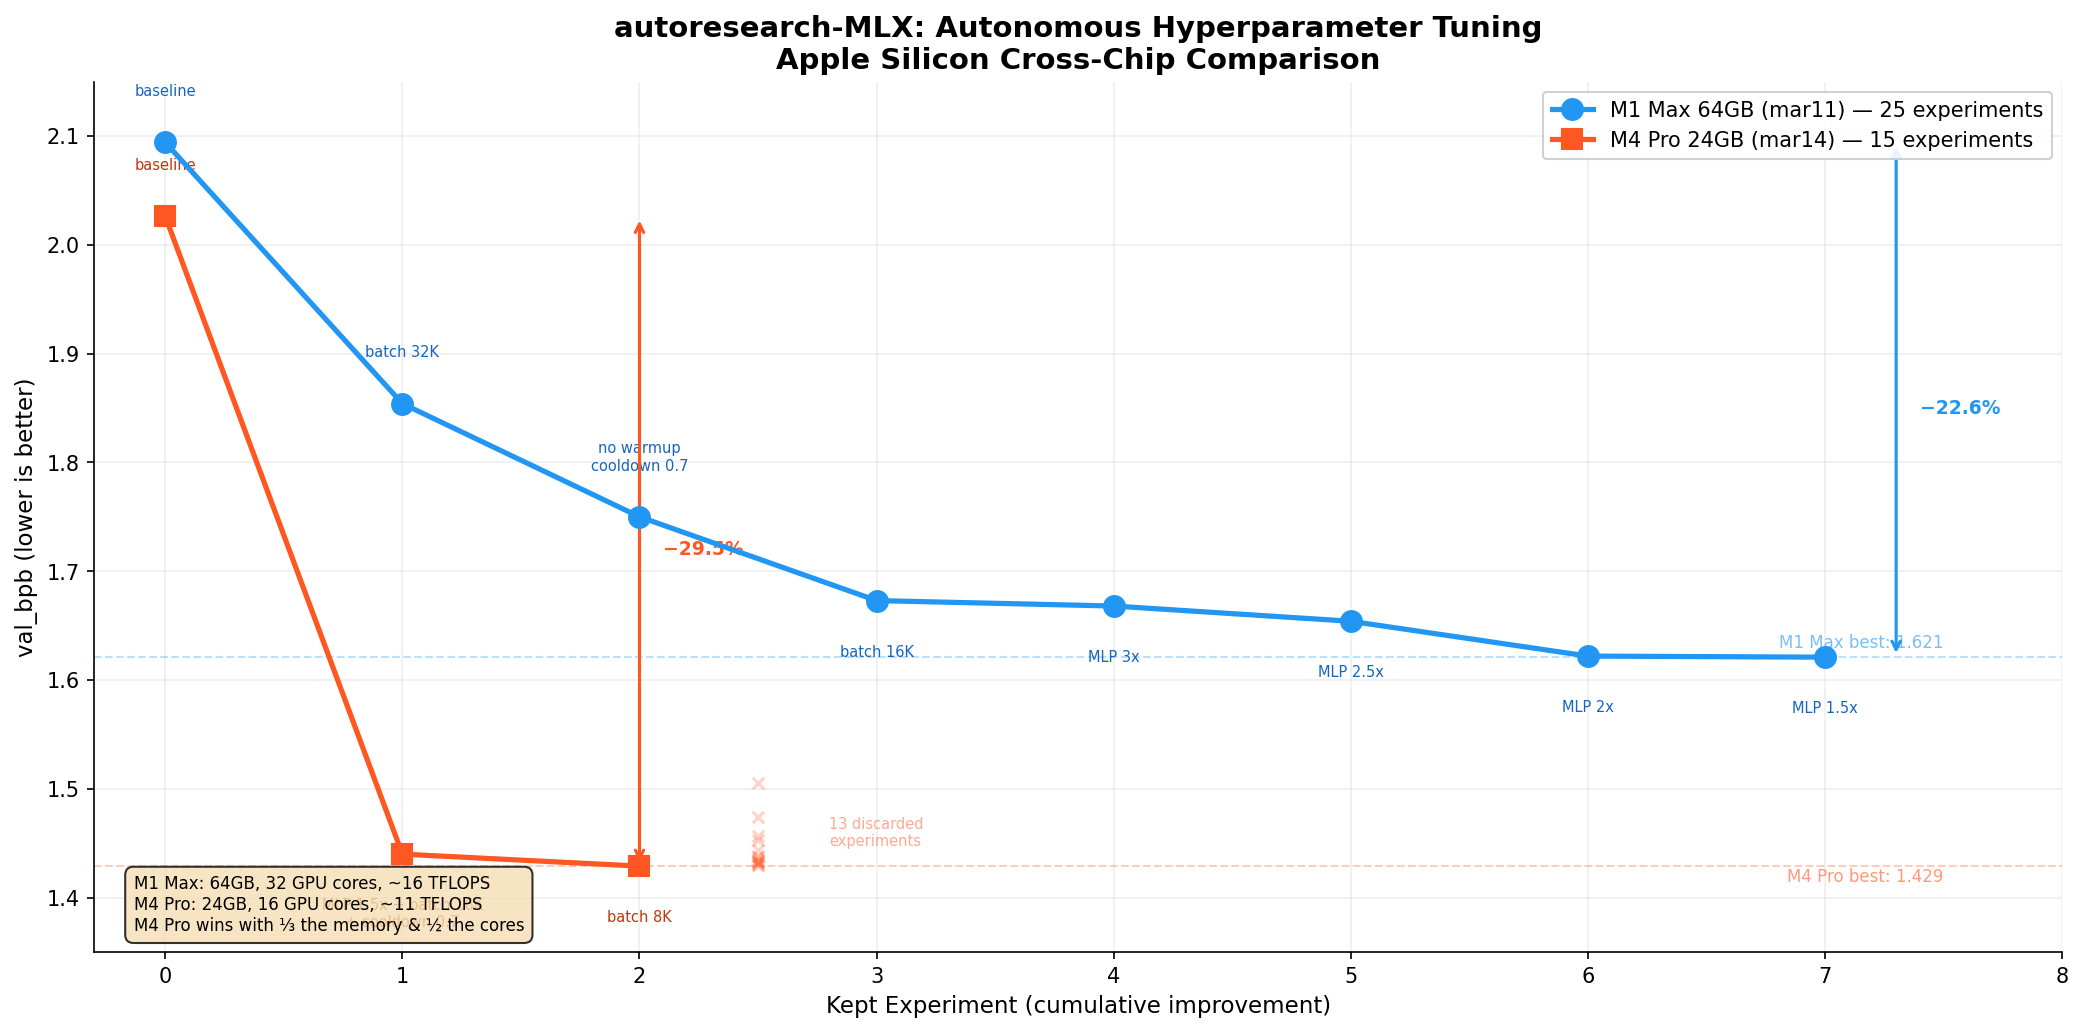
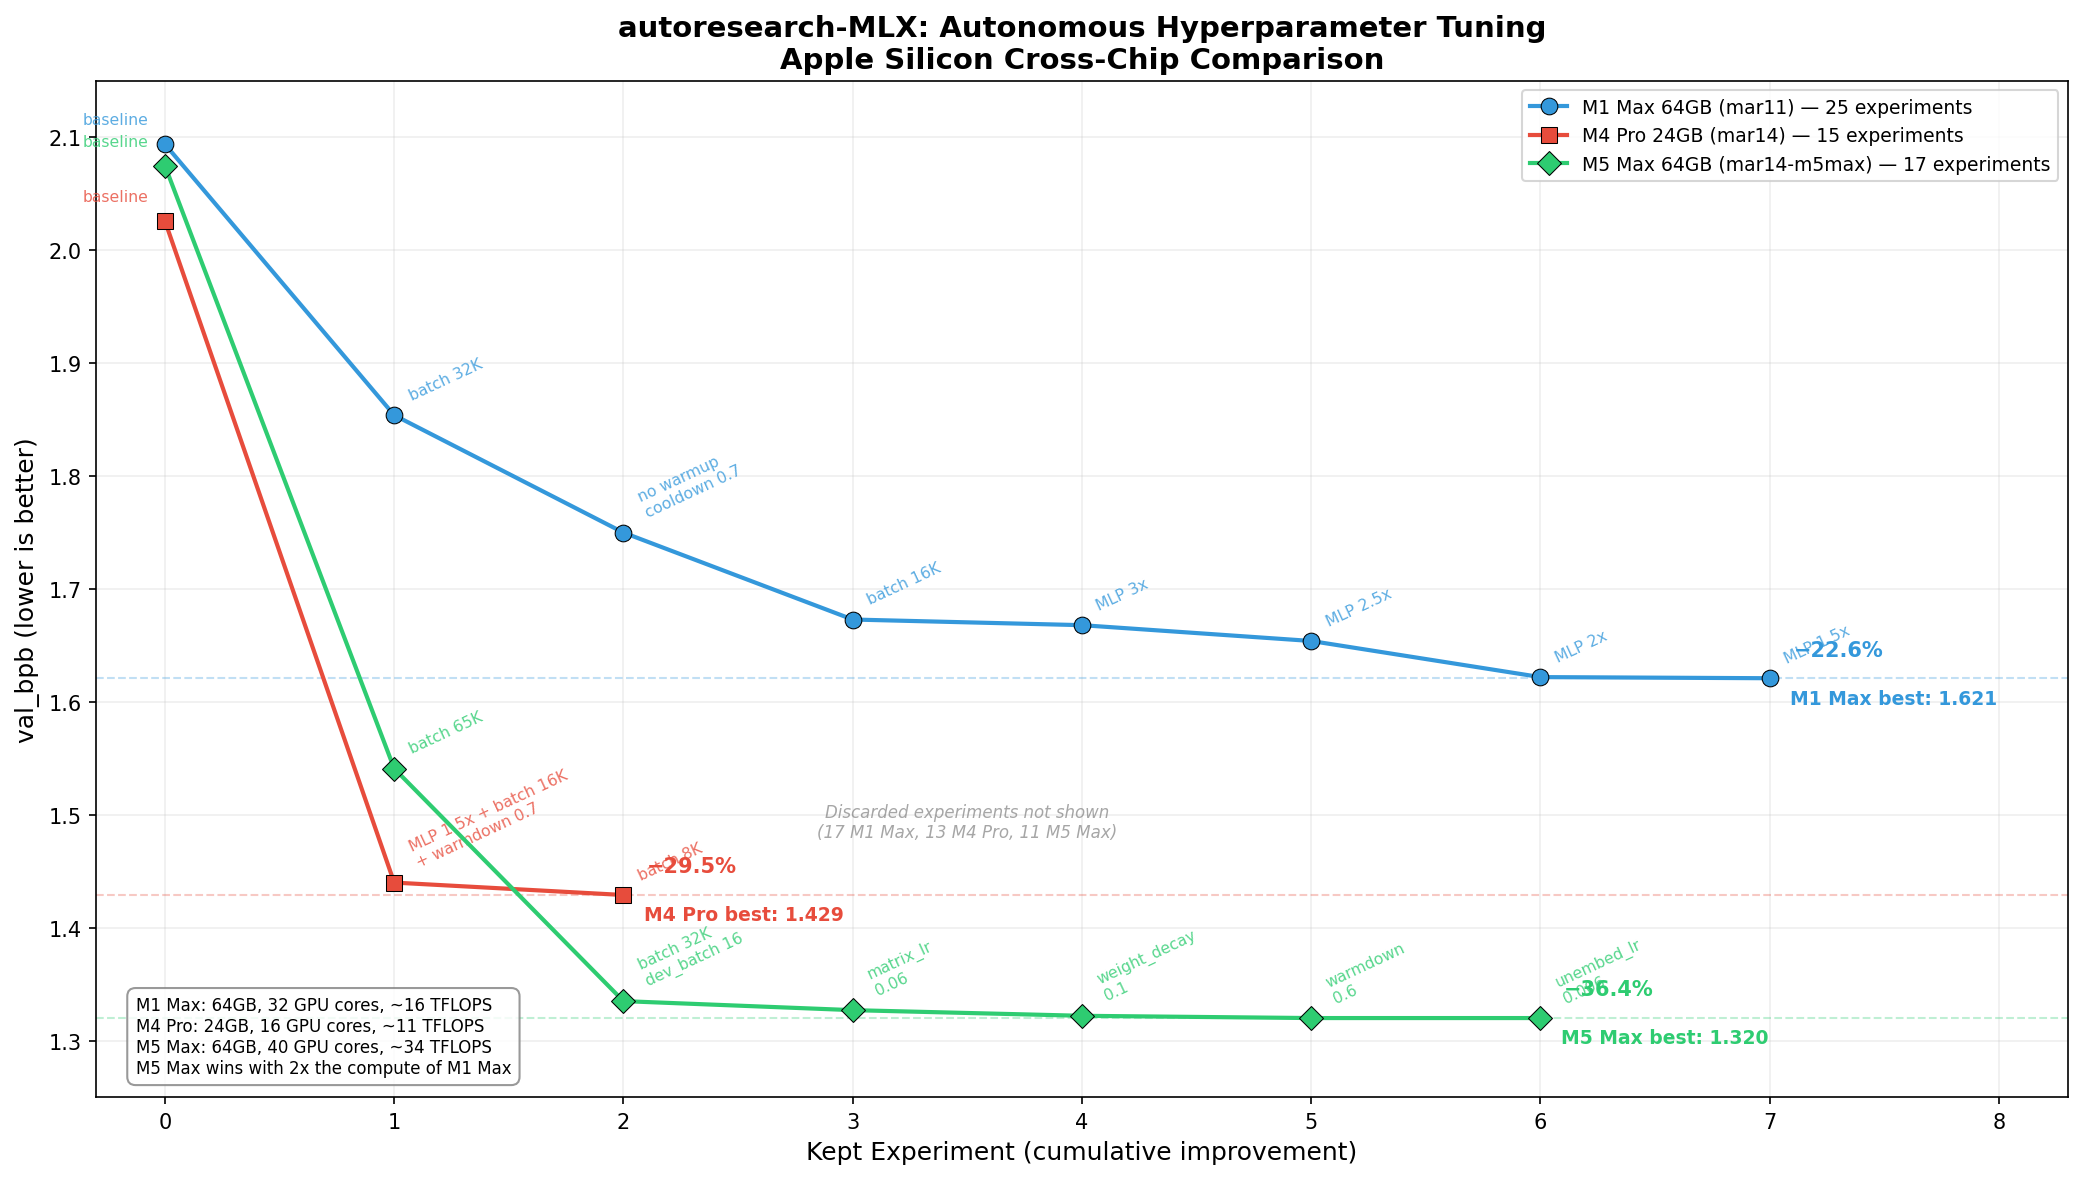
Update README and chart with M5 Max results (val_bpb=1.320)
Add M5 Max as new best result across 3 chips:
- M5 Max: 1.320 (-36.4%) — 17 experiments
- M4 Pro: 1.429 (-29.5%) — 15 experiments
- M1 Max: 1.621 (-22.6%) — 25 experiments

Updated cross-chip comparison chart, results tables, output example,
and hardware support range (M1-M5).

diff --git a/README.md b/README.md
@@ -2,28 +2,29 @@
 
 Apple Silicon dual-backend port of [karpathy/autoresearch](https://github.com/karpathy/autoresearch) with full Muon optimizer support on both PyTorch MPS and MLX.
 
-![Experiment Results: M1 Max vs M4 Pro](experiment_results.png)
+![Experiment Results: M1 Max vs M4 Pro vs M5 Max](experiment_results.png)
 
 > **Latest results**: See the [experiment wiki](https://github.com/elementalcollision/autoresearch/wiki) for full details per chip.
 >
 > | Chip | Date | Best val_bpb | Improvement | Branch |
 > |------|------|-------------|-------------|--------|
-> | **M4 Pro** (24 GB) | [Mar 14](https://github.com/elementalcollision/autoresearch/wiki/Experiment-Results-Mar-14-2026-M4-Pro) | **1.429** | −29.5% | [`autoresearch/mar14`](https://github.com/elementalcollision/autoresearch/tree/autoresearch/mar14) |
+> | **M5 Max** (64 GB) | [Mar 15](https://github.com/elementalcollision/autoresearch/wiki/Experiment-Results-Mar-15-2026-M5-Max) | **1.320** | −36.4% | [`autoresearch/mar14-m5max`](https://github.com/elementalcollision/autoresearch/tree/autoresearch/mar14-m5max) |
+> | M4 Pro (24 GB) | [Mar 14](https://github.com/elementalcollision/autoresearch/wiki/Experiment-Results-Mar-14-2026-M4-Pro) | 1.429 | −29.5% | [`autoresearch/mar14`](https://github.com/elementalcollision/autoresearch/tree/autoresearch/mar14) |
 > | M1 Max (64 GB) | [Mar 11](https://github.com/elementalcollision/autoresearch/wiki/Experiment-Results-Mar-11-2026) | 1.621 | −22.6% | [`autoresearch/mar11`](https://github.com/elementalcollision/autoresearch/tree/autoresearch/mar11) |
 >
-> The M4 Pro achieved a better result with **1/3 the memory and 1/2 the GPU cores** — demonstrating that on Apple Silicon, step speed and memory efficiency matter more than raw hardware specs.
+> Each generation finds different optimal trade-offs: M1 Max narrowed MLP (4x→1.5x), M4 Pro shrank batches (64K→8K), M5 Max tuned optimization (LR 0.04→0.06, WD 0.2→0.1) while keeping the full architecture. Step count within the 5-minute budget remains the dominant factor across all chips.
 
 ## What is this?
 
 [Autoresearch](https://github.com/karpathy/autoresearch) is Karpathy's framework for autonomous AI-driven LLM training experiments. An AI agent modifies the training code, runs a 5-minute experiment, checks if results improved, keeps or discards, and repeats overnight.
 
-The original requires an NVIDIA GPU (H100) with CUDA, FlashAttention-3, and `torch.compile`. This fork ports everything to Apple Silicon, supporting both **PyTorch MPS** and **MLX** backends. It runs on any Apple Silicon Mac from M1 to M4 Ultra — tested on M1 Max (64 GB) and M4 Pro (24 GB), with the M4 Pro actually achieving the best results thanks to its superior per-core performance and memory efficiency.
+The original requires an NVIDIA GPU (H100) with CUDA, FlashAttention-3, and `torch.compile`. This fork ports everything to Apple Silicon, supporting both **PyTorch MPS** and **MLX** backends. It runs on any Apple Silicon Mac from M1 to M5 Ultra — tested on M1 Max (64 GB), M4 Pro (24 GB), and M5 Max (64 GB), with the M5 Max achieving the best results thanks to its superior compute throughput and GPU Neural Accelerators.
 
 ### Key features
 
 - **Dual backend**: PyTorch MPS and Apple MLX, auto-detected or manually selected
 - **Full Muon optimizer on both backends**: Newton-Schulz (Polar Express) orthogonalization, Nesterov momentum, NorMuon variance reduction, cautious weight decay. The MLX port is a novel implementation that doesn't exist in any public fork.
-- **Hardware auto-detection**: Identifies chip generation (M1-M4), tier (base/Pro/Max/Ultra), GPU core count, and memory. Scales hyperparameters accordingly.
+- **Hardware auto-detection**: Identifies chip generation (M1-M5), tier (base/Pro/Max/Ultra), GPU core count, and memory. Scales hyperparameters accordingly.
 - **Hardware-adaptive defaults**: Batch size, model depth, and total batch size tuned per chip tier
 - **No CUDA dependencies**: Pure Apple Silicon. FlashAttention-3 replaced with PyTorch SDPA (MPS) and native attention (MLX).
 
@@ -110,7 +111,7 @@ The agent reads `program.md`, establishes a baseline, then enters an autonomous 
 
 | Chip tier | Memory | Model depth | Device batch | Total batch |
 |-----------|--------|-------------|-------------|-------------|
-| Base (M1-M4) | 8-24 GB | 4 | 8 | 32K tokens |
+| Base (M1-M5) | 8-24 GB | 4 | 8 | 32K tokens |
 | Pro | 18-36 GB | 6 | 16 | 64K tokens |
 | Max | 36-128 GB | 8 | 32 | 128K tokens |
 | Ultra | 64-192 GB | 10 | 64 | 256K tokens |
@@ -121,10 +122,11 @@ These are conservative starting points. The agent will aggressively optimize the
 
 | Chip | Memory | Best val_bpb | Optimized batch | Peak mem | Steps |
 |------|--------|-------------|----------------|----------|-------|
-| **M4 Pro** | 24 GB | **1.429** | 8K total, 4 device | 4.5 GB | 751 |
+| **M5 Max** | 64 GB | **1.320** | 32K total, 16 device | 26.1 GB | 312 |
+| M4 Pro | 24 GB | 1.429 | 8K total, 4 device | 4.5 GB | 751 |
 | M1 Max | 64 GB | 1.621 | 16K total, 8 device | 11.3 GB | ~210 |
 
-**Key insight**: Smaller batches dramatically improve results because they yield more optimizer steps within the fixed 5-minute time budget. The agent consistently discovers that *throughput beats capacity* — a smaller, faster model trained for more steps outperforms a larger model trained for fewer steps.
+**Key insight**: Maximizing optimizer steps within the fixed 5-minute time budget is the dominant factor across all chips. Each generation finds its own optimal batch size — M5 Max at 32K, M4 Pro at 8K, M1 Max at 16K — balancing gradient quality against step throughput.
 
 ## Differences from the original
 
@@ -144,20 +146,20 @@ After a 5-minute run, the script prints:
 
 ```
 ---
-val_bpb:          1.429396
-training_seconds: 300.2
-total_seconds:    341.8
-peak_vram_mb:     4510.8
-mfu_percent:      13.54
-total_tokens_M:   6.2
-num_steps:        751
-num_params_M:     21.9
-depth:            6
+val_bpb:          1.319639
+training_seconds: 300.7
+total_seconds:    398.4
+peak_vram_mb:     26742.3
+mfu_percent:      23.35
+total_tokens_M:   10.2
+num_steps:        312
+num_params_M:     50.3
+depth:            8
 backend:          mlx
-chip:             Apple M4 Pro
+chip:             Apple M5 Max
 ```
 
-The key metric is **val_bpb** (validation bits per byte) — lower is better. The example above is an actual run from the M4 Pro optimized configuration.
+The key metric is **val_bpb** (validation bits per byte) — lower is better. The example above is an actual run from the M5 Max optimized configuration.
 
 ## Technical notes
 
